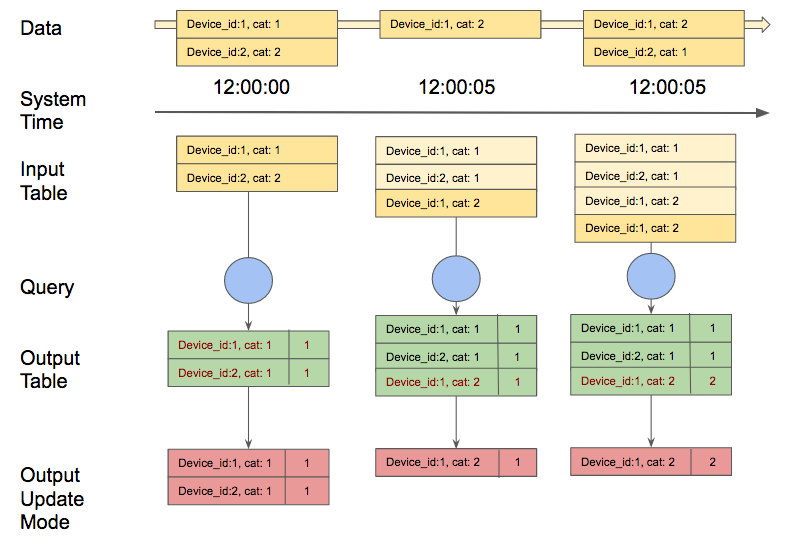
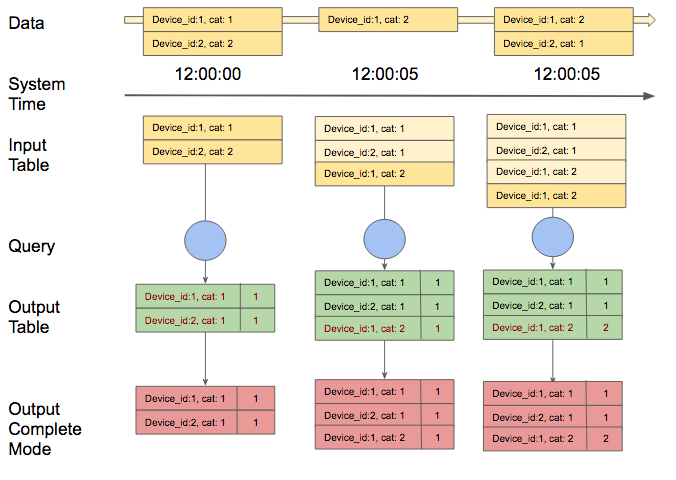
structured streaming update

diff --git a/spark-structured-streaming/index.html b/spark-structured-streaming/index.html
@@ -87,81 +87,98 @@
       <h2 id="postToScroll" class="post-title">Spark Structured Streaming</h2>
     
       <p>Dans ce blogpost, nous allons développer notre étude autour d’un moteur de traitement streaming récent: Spark Structured Streaming.
-Scalable, tolérant aux pannes, à l’instar de Spark streaming, il se base sur le moteur Spark SQL et permet ainsi la construction d’applications.</p>
+Scalable, tolérant aux pannes, à l’instar de Spark streaming, il se base sur le moteur Spark SQL et permet ainsi la construction plus simple d’applications.</p>
 <h3>Principe de fonctionnement</h3>
 <p>Concrètement, structured streaming permet à l'utilisateur de traiter la donnée comme s'il s'agissait d'une table qui se remplissait perpétuellement:  chaque nouvelle occurence dans le stream pourrait se traduire par l'ajout d'une nouvelle ligne dans la table. 
-Spark traite la donnée ici de manière innovante, même si cela peut s'apparenter à un modèle de process batch conventionnel.</p>
+Spark permet ainsi de traiter des flux de données en utilisant la même API que pour les traitements batch.</p>
 <p><img src="../static/img/sstream/sstream-3.png" alt="spark-structured-streaming-3"></p>
-<p>L'utilisateur peut ensuite réaliser une requête sur cette <em>input table afin</em> de générer une <em>output table</em>.
-Il s'agit ici d'une incrémentialisation: on est face à un phénomène de transformation des pseudos micros batchs en exécution de stream:</p>
+<p>Cette table d'entrée peut ensuite être transformée par une requête qui s'exécute de manière incrémentale pour calculer une table de résultats :</p>
 <ul>
-<li>L'utilisateur défini un déclencheur (trigger) qui déterminera l'intervalle de temps sur lequel de nouvelles lignes s'insèreront sur l'<em>input table</em> et donc, définira les mises à jour de l'<em>output table</em>. </li>
-<li>En effet, à chaque déclenchement de trigger, spark vérifie la présence ou non de données (si de nouvelles lignes sont apparus dans l'<em>input table</em>), puis l'incrémente dans notre <em>output table</em>. </li>
+<li>L'utilisateur défini un déclencheur (trigger) qui déterminera l'intervalle de temps de mise à jour de la table de résultats. </li>
+<li>Lorsque la table de résultats est mise à jour, ces derniers sont persistés sur un stockage externe (écriture de fichiers parquets, sauvegarde dans une base cassandra...). </li>
 </ul>
 <p><img src="../static/img/sstream/sstream-4.png" alt="spark-structured-streaming-4"></p>
-<p>Le schéma ci dessus se termine par l'apparition de la notion de <strong>mode d'output</strong>. Ce mode détermine tout simplement le type d'écriture qui s'effectuera dans notre stockage externe (dans notre cas, cassandra). Il existe 3 modes:</p>
+<p>La manière de persister les données est définie pour un "output mode" qui peut prendre les valeurs suivantes :</p>
 <ul>
-<li>Append: seul les dernières lignes apparaissant dans notre <em>output table</em> depuis le dernier trigger s'écriront dans notre stockage</li>
-<li>Complete: l'ensemble de l'<em>output table</em> sera écrit dans notre solution de stockage</li>
-<li>Update: seul les lignes qui seront modifiées dans notre <em>output table</em> depuis le dernier trigger, seront changées dans notre solution de stockage. (<strong> Non disponible en spark 2.0</strong>)</li>
+<li>Append: seules les <strong>nouvelles lignes</strong> apparaissant dans notre <em>output table</em> depuis le dernier trigger s'écriront dans le stockage.</li>
+<li>Complete: l'ensemble de l'<em>output table</em> sera écrit : c'est le mode que nous utiliserons pour ce démonstrateur</li>
+<li>Update: seules les lignes <strong>modifiées</strong> dans notre <em>output table</em> depuis le dernier trigger, seront écrites. (<strong>Non disponible en spark 2.1</strong>)</li>
 </ul>
-<p>Exemple avec le mode Update:</p>
+<p>Exemple de comptage des devices par categories de notre simulateur IOT avec le mode <strong>Complete</strong> :</p>
 <p><img src="../static/img/sstream/sstream-5.png" alt="spark-structured-streaming-5"></p>
-<h3>Gestion d'Event-Time et du retard de la donnée:</h3>
-<p>L'event time correspond à une date inclue dans la donnée elle même, ce qui peut être utile pour certaines applications. À des fins de précision, travailler sur une date correspondant au moment de la création de la donnée plutôt qu'au moment de son arrivée dans Spark est beaucoup plus judicieux. 
-Spark structured streaming permet de travailler sur cet "event-time" (présence d'une colonne event-time dans chaque ligne  de chaque évènement)  et ce qui permet de réaliser des agrégations sur cette fenêtre de temps (chaque fenêtre de temps étant un groupe et chaque ligne peut appartenir à un ou plusieurs groupes...</p>
-<p>La gestion du retard de la donnée est elle aussi gérée automatiquement par ce modèle. Depuis que Spark gère la gestion de la mise à jour des output tables, il peut gérer les anciennes agrégations lorsqu'il s'agit de données en retard, tout comme il peut mettre à jour proprement des anciennes agrégations.</p>
-<h3>Tolérance aux pannes:</h3>
-<p>Spark structured stream a été pensé de manière à pouvoir garder des résultats valides, en cas de panne de machine, en redémarrant  et/ ou reprocessant la donnée:</p>
+<h3>Atouts et spécificités du modèle Structured Streaming</h3>
+<p>Outre la possibilité de travailler sur des flux de données de manière équivalente à ce qui se fait en mode batch, spark structured streaming dispose également de caractéristiques très intéressantes :</p>
 <ul>
-<li>Chaque source streaming est supposée disposer d'un système d'offsets, (comme Kafka) lui permettant de savoir la position du message dans le stream. </li>
-<li>Spark se base ainsi sur ce principe en écrivant des logs. Ces logs correspondent à l'intervalle d'offsets de la data processée dans chaque trigger. </li>
-<li>Le flux de sorti est réalisé de sorte à ce qu'il soit idempotent ( une opération a le même effet qu'on l'applique une ou plusieurs fois) et ce, pour permettre de processer la donnée à nouveau. </li>
+<li>La gestion d'un <strong>Event-Time</strong> : chaque évènement inséré dans la table d'entrée est accompagné d'une colonne supplémentaire "event-time" qui permet la prise en compte des fenêtres de temps</li>
+<li>La gestion du <strong>retard de la donnée</strong> : la table de sortie étant mise à jour de manière incrémentale, une donnée arrivant en "décalage" sera bien prise en compte</li>
+<li>La prise en compte de la <strong>tolérance aux pannes</strong> (<em>exactly-once fault tolerance</em>) : un mécanisme de checkpoint est utilisé pour enregistrer les métadonnées correspondant aux données traitées</li>
 </ul>
+<hr>
 <h3>Structured Spark Streaming dans Boontadata:</h3>
-<p>À travers ce blog, nous allons:</p>
+<p>Cette série de blogposts visant à comparer différents framework de traitement de données en streaming, le cadre général d'étude reste le même :</p>
 <ul>
-<li>décrire notre intégration end-to-end avec Kafka, consumer les messages depuis ce dernier</li>
-<li>utiliser les propriétés de Spark Structured Streaming afin de créer un streaming dataset</li>
-<li>insérer ces données dans une base de données cassandra.</li>
+<li>une source de donnée streaming dans un composant Kafka</li>
+<li>le traitement des données avec un framework de traitement de données streaming : ici Spark Structured Streaming (<em>il faut noter que Spark Structured Streaming est toujours en phase “Alpha” de développement, tout comme les API permettant son utilisation.</em>)</li>
+<li>les résultats enregistrés dans une base Cassandra pour analyse</li>
 </ul>
 <p><img src="../static/img/sstream/sstream-1.png" alt="spark-structured-streaming-1"></p>
-<p><em>Nous pourrons noter le fait que Spark Structured Streaming est toujours en phase “Alpha” de développement, tout comme les API permettant son utilisation.</em></p>
-<p>L'architecture utilisée à travers ce blogpost repose également sur notre plateforme générique boontadata.
-Elle est constituée des éléments :</p>
+<p>De manière plus détaillée, la plateforme générique boontadata est constituée des éléments suivants :</p>
 <ul>
 <li>Simulateur IOT permettant de créer des flux de messages</li>
 <li>Système de messagerie distribué Kafka basé sur le principe du "publisher" / "Subscriber"</li>
-<li>Base donnée Cassandra pour le stockage des données et résultats</li>
+<li>Base de donnée Cassandra pour le stockage des données et résultats</li>
 <li>Service de traitement des flux : Spark Streaming dans le cas de ce blog post</li>
 <li>Module de comparaison pour évaluer l'impact et la performance du module de traitement</li>
 </ul>
-<p>Tous les éléments de la plateforme boontada sont créés dans des containers distincts de manière à apporter un maximum de flexibilité.</p>
 <p><img src="../static/img/sstream/sstream-2.png" alt="spark-structured-streaming-2"></p>
-<p>Le schéma ci-dessus représente le workflow de notre plateforme.
-Les données proviennent d’un IOT et sont envoyées dans un broker Kafka. Les données sources sont également agrégées sur une fenêtre de temps par la simulateur IOT et sauvegardées dans la base Cassandra pour servir de référence.
-La brique Kafka sert de source de données à Spark Structured Streaming qui représente le service de traitement à évaluer.
-Spark Structured Streaming procède au traitement des streams par création de datasets.
-Ces datasets sont ensuite stockés dans la base de données cassandra.
-Le module de comparaison récupère les résultats dans Cassandra et permet d'évaluer les latences induites par le traitement Spark Streaming.</p>
+<p>Tous les éléments de la plateforme boontada sont créés dans des containers distincts de manière à apporter un maximum de flexibilité.</p>
 <p>Afin de connaître la procédure d’installation, n’hésitez pas à aller sur le lien <a href="https://github.com/boontadata/boontadata-streams/blob/master/doc/procedure_install_running_scenarios.md">suivant</a>.</p>
-<p>Ayant déjà traité le fonctionnement de notre environnement et architecture boontadata dans un blog précédent (lien vers spark streaming),   nous détaillerons ici le code correspondant au nouveau scénario Spark structured Streaming.</p>
+<p>Ayant déjà traité le fonctionnement de notre environnement et architecture boontadata dans les blogs précédents (voir l'article spark streaming dans la série boontadata),   nous détaillerons ici le code correspondant au nouveau scénario Spark structured Streaming.</p>
 <hr>
 <h2>Code:</h2>
-<h3>SparkSession et récupération des messages Kafka</h3><p>Pour Spark Structured Streaming, le code est écrit en scala (SStreamingJob.scala). Les principaux éléments du code sont les suivants :</p>
+<p>Pour Spark Structured Streaming, le code est écrit en scala (SStreamingJob.scala). Les principaux éléments du code sont les suivants :</p>
 <ul>
+<h3>SparkSession et récupération des messages Kafka</h3>
 <li> Définition d'une configuration "sparkConf" prenant en compte le nom de notre application et la connexion à la base de données Cassadandra</li>
 <script src="https://gist.github.com/BastienBP/7e707482cffb4a5fec9fc27f54ca4fb7.js"></script>
-<li> Lancement d'une nouvelle session spark </li>
 <li> Lecture en streaming des messages provenant des brokers Kafka.  On y renseigne l'adresse des brokers, le topic, le type de lecture, ici "latest", permettant de récupérer les dernier messages du topic </li>
 <script src="https://gist.github.com/BastienBP/5d9dfc2dc496f3199e8465a482e6cdd4.js"></script>
-</ul><p><h3>Création du dataset</h3></p>
-<ul>
-<li> On récupère ensuite les champs "value" et "timestamp" des messages (que l'on caste au format String).
-On définit une colonne "cols", liste des éléments que l'on veut récupérer de "value".
-On réalise ensuite un dataset, issu de la séparation par "|" de chaque ligne.  </li>
-<script src="https://gist.github.com/BastienBP/fea5dba294b89a2d9ff3a7f341f20030.js"></script>
-</ul><hr>
+
+<h3>Création du dataset</h3>
+<li> Extraction des informations du message : définition des colonnes formant le dataset </li>
+<li> Application de la logique business  : somme des mesures sur la fenêtre de temps</li>
+<i> Il faut noter que la déduplication des messages n'est pas réalisée en raison d'une limitation du moteur spark structured streaming.  
+En effet, à l'heure actuelle, il n'est pas possible de réaliser plus d'une agrégation dans les traitements.  
+Pour palier à ce problème, il aurait fallu envoyer le résultat de la déduplication dans un nouveau topic kafka puis traiter ce nouveau message pour faire la somme des mesures de l'IOT.</i>
+<script src="https://gist.github.com/lololc/7ea918152380cd1e327bc063aeab89ee.js"></script>
+
+<h3>Application de la requête et enregistrement des données</h3>
+<li> Requête : chaque ligne de la table de résultats va être insérée dans Cassandra </li>
+<script src="https://gist.github.com/lololc/c1b22eaee7174e1e67994002a5abe45f.js"></script>
+
+<li> Ecriture dans Cassandra : utilisation du Foreach writer </li>
+<i> L'output mode a été fixé en "complete" : seul mode adapté dans notre cas (le mode append ne peut être utilisé car les lignes agrégées doivent être modifiées au fur et à mesure de l'arrivée des messages et le mode update n'est pas disponible). Ce mode pourrait poser des problèmes de performances si la taille de la table de sortie devient trop importante.</i>
+<script src="https://gist.github.com/lololc/ac9c0a4f75c305e96d201c5e9700e293.js"></script>
+</ul><p>Il pourrait être intéressant de compléter l'étude en faisant varier l'intervalle de déclenchement du trigger. Par défaut, le trigger se déclenche dès que les traitements sont terminés mais l'on peut spécifier une valeur de temps :</p>
+<pre><code>// Exemple de déclenchement du trigger toutes les 10 secondes
+ds.writeStream.queryName("aggregateStructuredStream")
+        .trigger(ProcessingTime("10 seconds"))
+        .outputMode("complete")
+        .foreach(writer).start
+</code></pre>
+<hr>
+<h2>Résultats</h2>
+<p>L'analyse des résultats permet de comparer les valeurs d'agrégation (sur la fenêtre de temps de 5s) réalisées en début de workflow par le simulateur IOT avec celles calculées par le moteur Spark Structured Streaming (sur la base de l'event time)</p>
+<p>Exemple de résultats :</p>
+<pre><code>Comparing ingest device and downstream for m1_sum
+--------------------------------------------------
+26 exceptions out of 26
+()
+Exceptions are:
+</code></pre>
+<p><img src="../static/img/sstream/results_sss.png" alt="spark-structured-streaming-6"></p>
+<p>Ces résultats mettent en évidence les faiblesses actuelles du moteur spark structured streaming. 
+En effet, l'impossibilité de réaliser plusieurs agrégations dans un même traitement et la non disponibilité du mode output "update" sont des éléments qui attestent de la jeunesse de ce moteur.</p>
 
       <p class="post-meta">
           <br>
